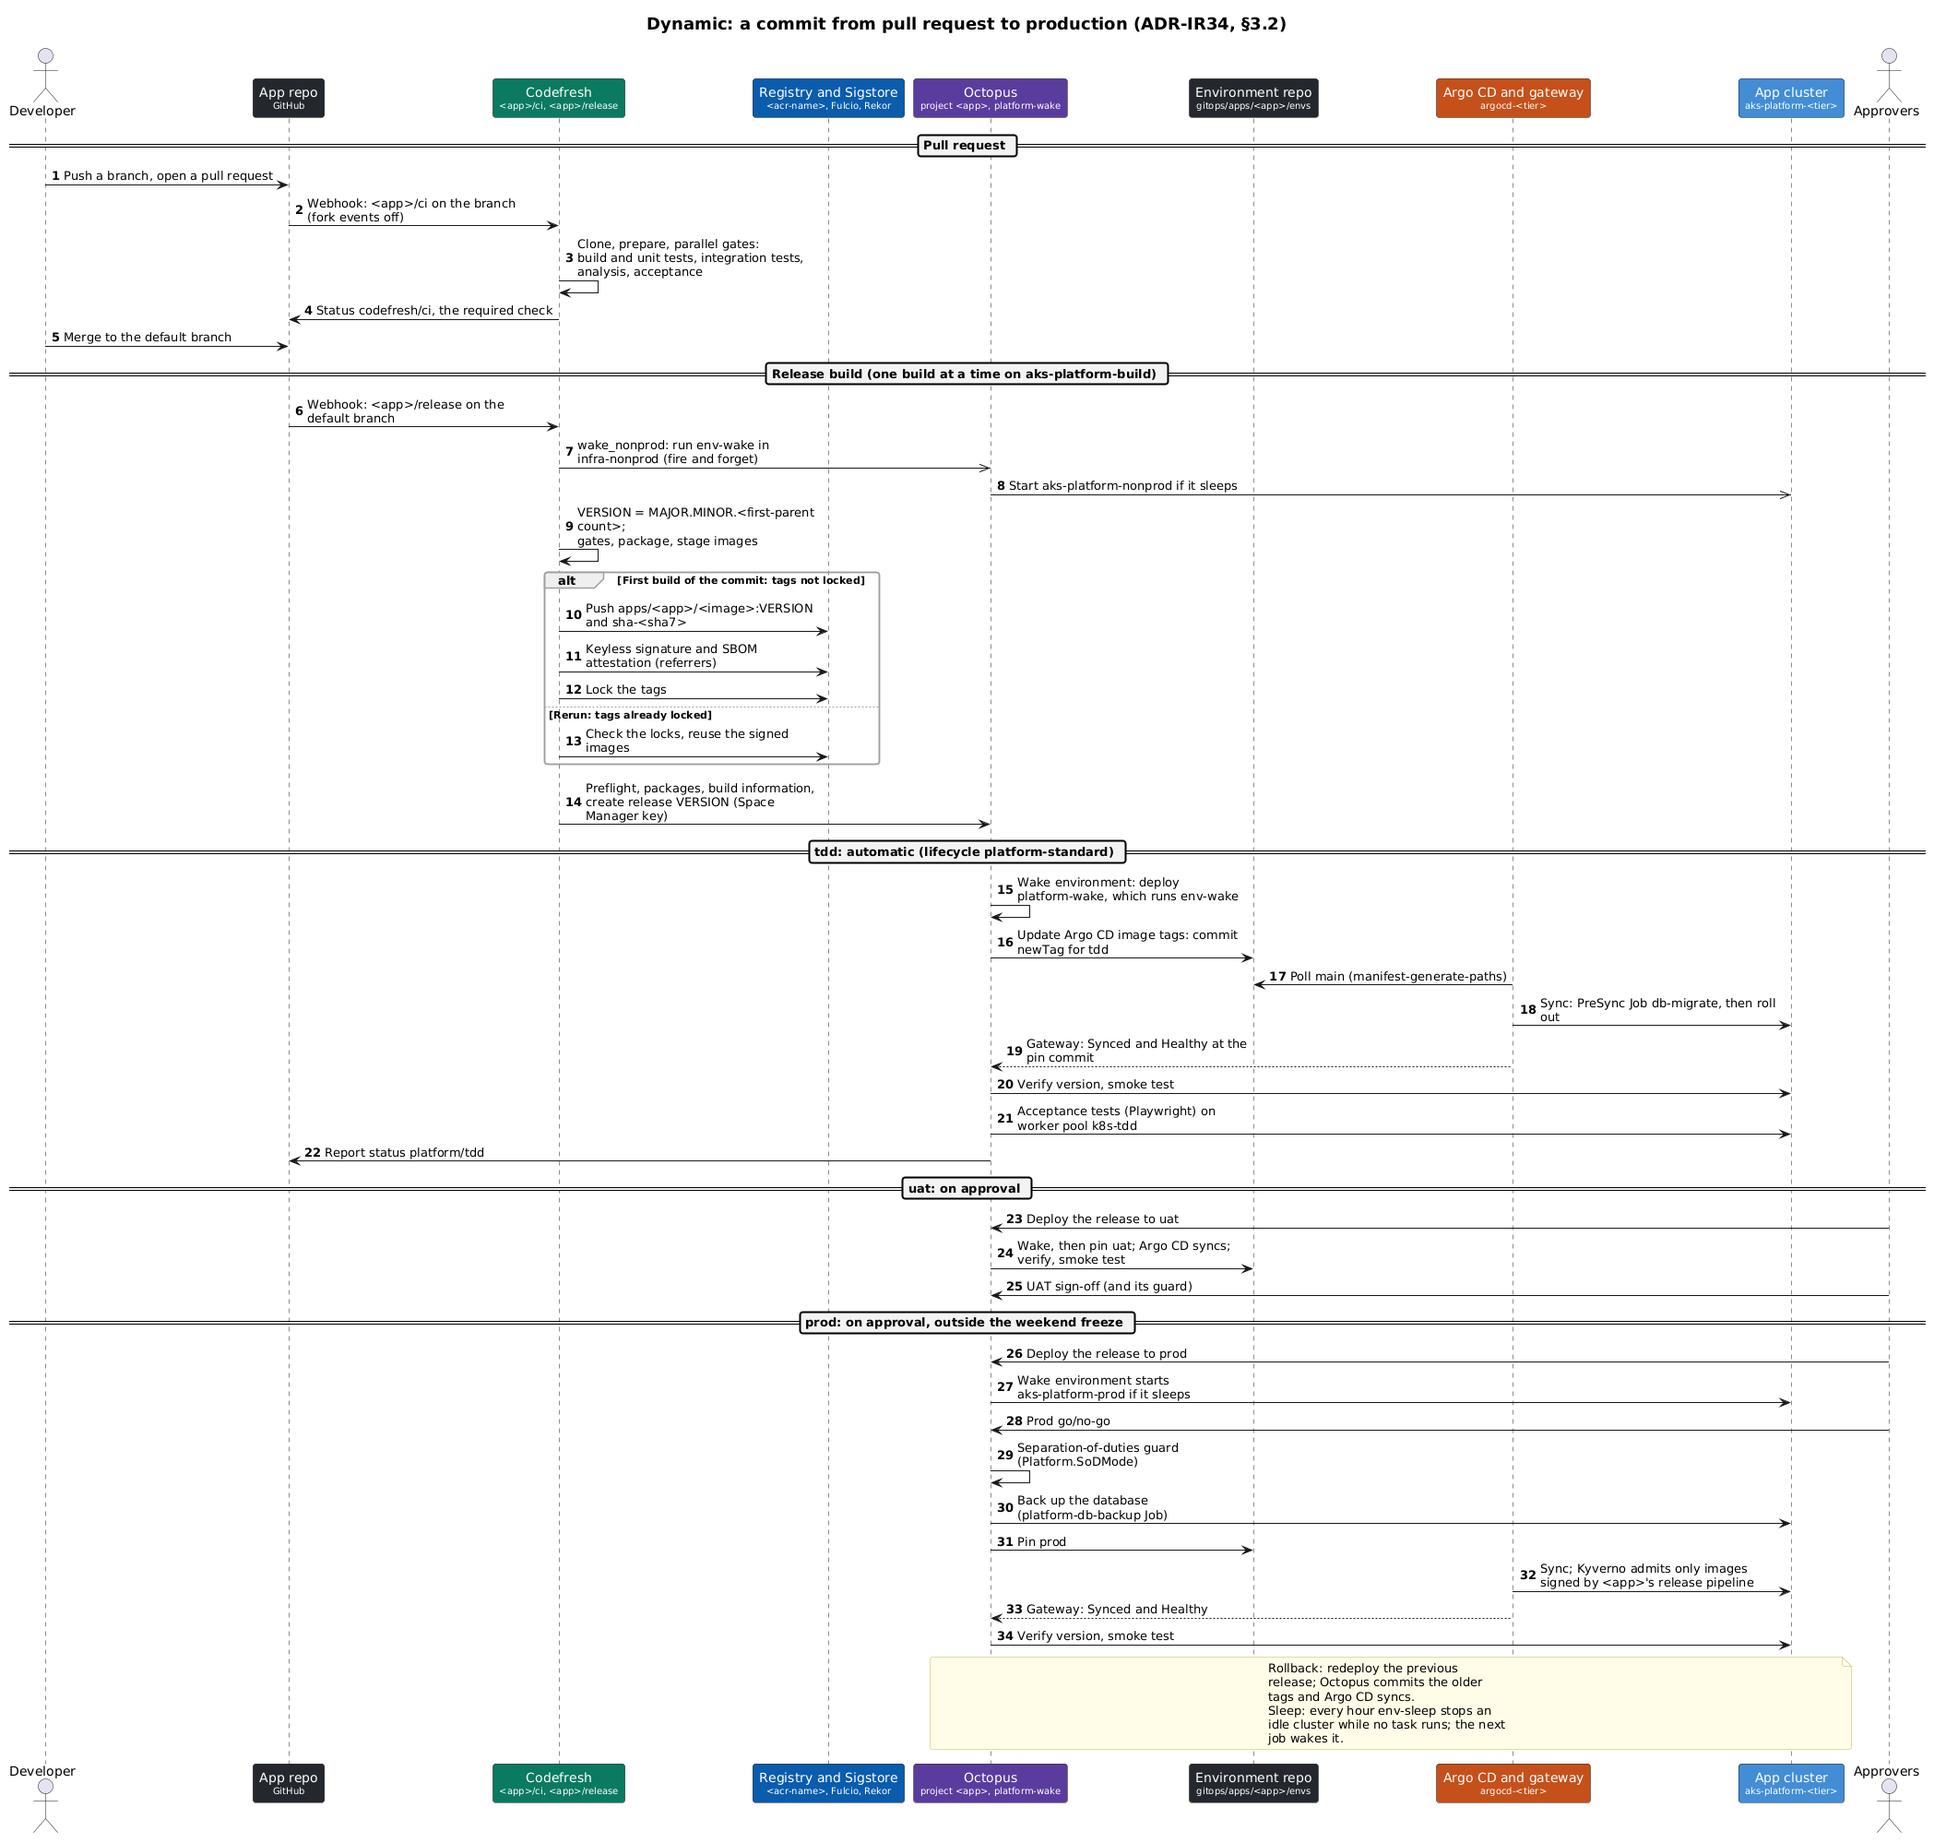
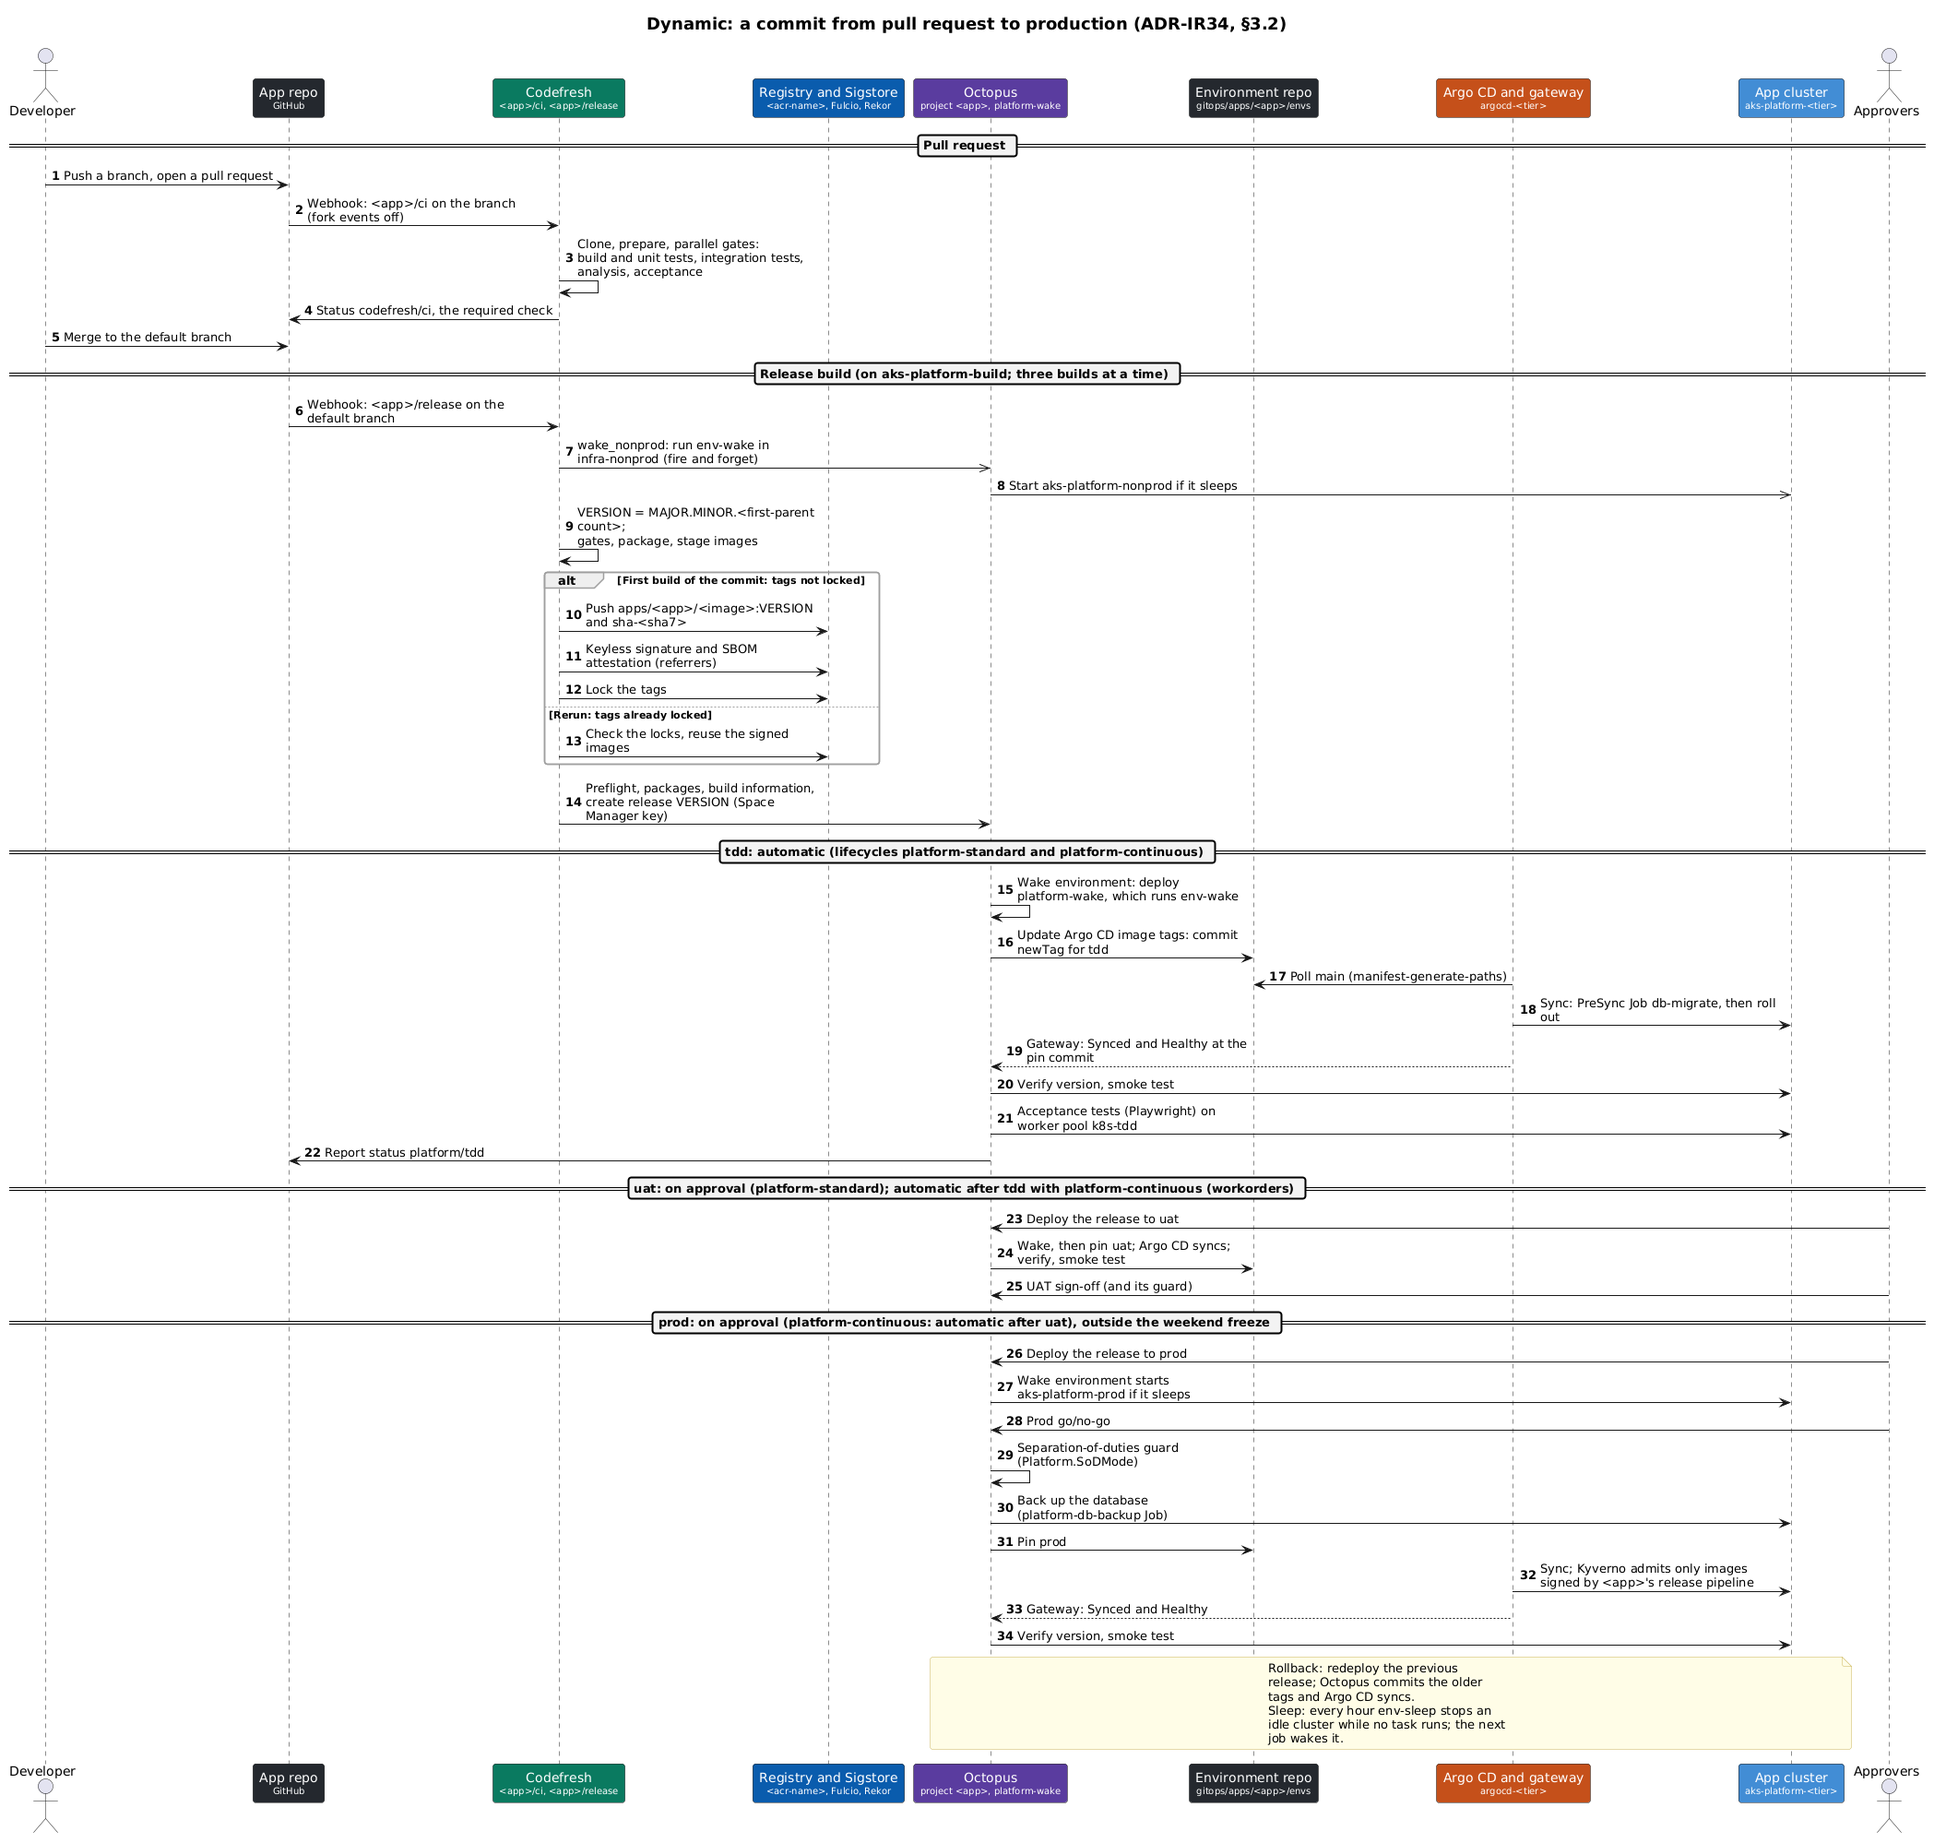
Design: as-built C4 diagrams (runtime, dependencies, environment and app change flows)
Four new diagrams under design/diagrams with real resource names, rendered by
scripts/diagrams/render.ps1 and embedded in README.md, design/architecture-views.md,
docs/walkthroughs/01 and 04 and docs/runbooks/demo-commit-to-prod.md:
- c4-2-as-built-runtime: GitHub, Codefresh hybrid runtime, ACR, Octopus Spaces-335,
  Argo CD, Envoy Gateway, app namespaces and Key Vaults on both app clusters.
- c4-2-as-built-dependencies: build, deploy and run-time dependencies, boundary rules.
- dyn-as-built-env-change: numbered environment-repo change, plus the .octopus/ path.
- dyn-as-built-app-change: numbered workorders change from pull request to prod.

Stale diagrams updated: Argo CD polls every 30 s (dyn-pin-and-sync), Codefresh plan
PRO_1 with three builds and a 1-3 node builds pool (c4-2-deployment-azure,
c4-3-codefresh-a, dyn-commit-to-prod), platform-continuous in dyn-commit-to-prod;
c4-3-gitops-b and view-environment-topology re-rendered (sources changed in bacd872
without a render, which failed the diagrams check on main).

Claude-Session: https://claude.ai/code/session_01439y7Z3FdjfM3MQJYmTY9q

diff --git a/design/architecture-views.md b/design/architecture-views.md
@@ -6,6 +6,7 @@ The pictures are C4 and UML diagrams written in PlantUML under [diagrams/](diagr
 
 ## Contents
 
+- [As built: runtime, dependencies and the two change flows](#as-built-runtime-dependencies-and-the-two-change-flows)
 - [Level 1: system context](#level-1-system-context)
 - [Level 2: containers and deployment](#level-2-containers-and-deployment)
 - [Level 3: build and supply chain (Codefresh)](#level-3-build-and-supply-chain-codefresh)
@@ -18,6 +19,26 @@ The pictures are C4 and UML diagrams written in PlantUML under [diagrams/](diagr
 - [Level 4: code](#level-4-code)
 - [Flows](#flows)
 - [Views](#views)
+
+## As built: runtime, dependencies and the two change flows
+
+The provisioned environment with its real names (registry, vaults, clusters, Octopus space, repositories), checked against `terraform/`, `argocd/`, `gitops/`, `codefresh/`, `.octopus/` and `.github/workflows/`. The levels below keep the design placeholders.
+
+![Level 2 deployment: the environment as built, runtime structure](diagrams/c4-2-as-built-runtime.png)
+
+*Level 2 deployment, as built. GitHub holds the app repos `20260923-001` (workorders) and `platform-sandbox`, this environment repo and Project 678 with its board-only workflow. Codefresh (classic hybrid, runtime `aks-platform-build/codefresh`) runs ci, release and env-checks and pushes to `acrplatformi3aldz`. Octopus Cloud (`Spaces-335`, project `workorders`, lifecycle `platform-continuous`) pins commits to `main`; a self-managed Argo CD on `aks-platform-nonprod` (tdd, uat) and on `aks-platform-prod` (prod) syncs the app namespaces behind Envoy Gateway `platform-gateway`; External Secrets reads `kv-platform-np-i3aldz`, `kv-platform-pr-i3aldz` and the app vaults. Databases are SQL Server 2022 Express pods on managed disks, not Azure SQL. Source: [diagrams/c4-2-as-built-runtime.puml](diagrams/c4-2-as-built-runtime.puml).*
+
+![Level 2: dependencies of the environment as built](diagrams/c4-2-as-built-dependencies.png)
+
+*Level 2, dependencies. Build time: Codefresh depends on the app repo, the environment repo (pipeline YAML and scripts from `main`), Sigstore, the registry and Octopus. Deploy time: Octopus depends on `.octopus/` at `main`, writes pins and waits on the gateway. Run time: Argo CD depends on the environment repo; the workloads on the registry, the database and the vaults through External Secrets. Red dashed lines are boundary rules. The onion rules belong to the app repo, not here. Source: [diagrams/c4-2-as-built-dependencies.puml](diagrams/c4-2-as-built-dependencies.puml).*
+
+![Dynamic: an environment change, from pull request to healthy pods](diagrams/dyn-as-built-env-change.png)
+
+*Dynamic, an environment change: 1 pull request, 2 env-checks and the board workflow (In Review), 3 merge (Done), 4 Argo CD's poll (30 s + 10 s jitter), 5 sync with PreSync `db-migrate`, 6 rollout and health, which the gateway reports to Octopus. A `.octopus/` change takes O4 and O5 instead: Octopus reads `main` at the next release or runbook run. Source: [diagrams/dyn-as-built-env-change.puml](diagrams/dyn-as-built-env-change.puml).*
+
+![Dynamic: a workorders change, from pull request to prod](diagrams/dyn-as-built-app-change.png)
+
+*Dynamic, a workorders change: 1 pull request to `20260923-001`, 2 `workorders/ci` and `codefresh/ci`, 3 merge to master, 4 `workorders/release` (images, signatures, SBOM, release `2.5.<height>`), 5 the tdd pin commit, 6 Argo CD's sync with PreSync `db-migrate` and Octopus's verify, smoke and acceptance tests, 7 uat and 8 prod (database backup first) automatically, 9 the board status by dispatch. Source: [diagrams/dyn-as-built-app-change.puml](diagrams/dyn-as-built-app-change.puml).*
 
 ## Level 1: system context
 
@@ -51,7 +72,7 @@ What starts each pipeline, what a build uses, and how an image travels from buil
 
 ![Level 3: Codefresh projects, pipelines and their triggers](diagrams/c4-3-codefresh-a.png)
 
-*Level 3, Codefresh projects and pipelines (plan BASIC_1: one build at a time) and what starts each. App repos start `<app>/ci` on every branch but the release branch, `<app>/release` on it and `workorders/preview` on labelled same-repo pull requests; fork events are off. Each pipeline posts its `codefresh/*` status; `codefresh/ci` is the required check of master. The environment repo starts env-checks and ci-image-dotnet; crons start ci-image-dotnet weekly and conformance-arm, conformance-destructive and registry-retention once P1-13 enables them. conformance-arm pushes the sandbox commits and queues conformance; `codefresh/register.ps1` creates or replaces every project, pipeline, context and integration by name.*
+*Level 3, Codefresh projects and pipelines (plan PRO_1: three builds at a time) and what starts each. App repos start `<app>/ci` on every branch but the release branch, `<app>/release` on it and `workorders/preview` on labelled same-repo pull requests; fork events are off. Each pipeline posts its `codefresh/*` status; `codefresh/ci` is the required check of master. The environment repo starts env-checks and ci-image-dotnet; crons start ci-image-dotnet weekly and conformance-arm, conformance-destructive and registry-retention once P1-13 enables them. conformance-arm pushes the sandbox commits and queues conformance; `codefresh/register.ps1` creates or replaces every project, pipeline, context and integration by name.*
 
 Text: [7.7 Codefresh](platform-design.md#77-codefresh); [codefresh/apps/workorders/README.md](../codefresh/apps/workorders/README.md).
 

diff --git a/docs/walkthroughs/04-drift-and-rollback.md b/docs/walkthroughs/04-drift-and-rollback.md
@@ -19,6 +19,10 @@ The behaviour is the same for every app: the tenant chart renders every app Appl
 
 *Dynamic, pin and sync. The step Update Argo CD image tags finds the Applications annotated with the deployment's project and environment through the Octopus Argo CD gateway (outbound gRPC from the cluster), then commits `images[].newTag` to `gitops/apps/<app>/envs/<env>/<deployable>/kustomization.yaml` on main as Octopus, without triggering a sync. Argo CD's next poll (scoped by `manifest-generate-paths`) syncs, runs the PreSync `db-migrate` and rolls out; the gateway reports Synced and Healthy at the pin commit, which ends the step's 900-second wait; Verify version and Smoke test follow. A failed migration fails the sync while the old pods keep serving; a rollback redeploys the previous release; `platform-pin-writer` is the fallback writer.*
 
+![Dynamic: an environment change, from pull request to healthy pods](../../design/diagrams/dyn-as-built-env-change.png)
+
+*Dynamic, an environment change as built: pull request, env-checks and the board workflow, merge, Argo CD's 30-second poll, sync and rollout; a `.octopus/` change reaches Octopus at the next release or runbook run instead ([source](../../design/diagrams/dyn-as-built-env-change.puml)).*
+
 - **Git is the truth for Kubernetes.** Every app Application (`<app>-<deployable>-<env>`, `<app>-db-<env>`) syncs automatically with `prune: true` and `selfHeal: true` (ADR-D5). A change made directly in the cluster is reverted; a change merged to `main` is applied.
 - **Octopus is the truth for what version runs.** It is the only writer of the pin fields in `gitops/apps/<app>/envs/<env>/<deployable>/`. Its deployment history says which release each environment runs, who approved it and when.
 - **Rollback is a deployment.** Octopus "redeploy previous release" runs the older release's process again: its pin commit writes the older tags, the PreSync migration has nothing new to run (DbUp is forward-only), and Argo CD rolls the pods back. Argo CD's own rollback is refused on auto-synced Applications (E40), and self-heal would undo a `kubectl set image`.

diff --git a/README.md b/README.md
@@ -10,6 +10,26 @@ Status (2026-09-26): P0 done; P1 (provisioning and conformance) in progress, in 
 
 *Level 1, system context. The platform, the people who use it and the external systems it depends on. [design/architecture-views.md](design/architecture-views.md) shows every level of the design, top-down, each picture with a link to its text.*
 
+## Architecture
+
+The environment as built, with its real resource names; [design/architecture-views.md](design/architecture-views.md) has every other level.
+
+![Level 2 deployment: the environment as built, runtime structure](design/diagrams/c4-2-as-built-runtime.png)
+
+*Runtime structure: GitHub, Codefresh on `aks-platform-build`, `acrplatformi3aldz`, Octopus `Spaces-335`, and Argo CD with Envoy Gateway, the app namespaces and the Key Vaults on `aks-platform-nonprod` and `aks-platform-prod`. Source: [c4-2-as-built-runtime.puml](design/diagrams/c4-2-as-built-runtime.puml).*
+
+![Level 2: dependencies of the environment as built](design/diagrams/c4-2-as-built-dependencies.png)
+
+*Dependencies at build, deploy and run time, with the boundary rules in red. Source: [c4-2-as-built-dependencies.puml](design/diagrams/c4-2-as-built-dependencies.puml).*
+
+![Dynamic: an environment change, from pull request to healthy pods](design/diagrams/dyn-as-built-env-change.png)
+
+*An environment change, steps 1 to 6 (pull request, checks, merge, Argo CD poll, sync, rollout), plus O4 and O5 for `.octopus/`. Source: [dyn-as-built-env-change.puml](design/diagrams/dyn-as-built-env-change.puml).*
+
+![Dynamic: a workorders change, from pull request to prod](design/diagrams/dyn-as-built-app-change.png)
+
+*A workorders change, steps 1 to 9, from the pull request to `20260923-001` to prod and the board. Source: [dyn-as-built-app-change.puml](design/diagrams/dyn-as-built-app-change.puml).*
+
 ## One verb per tool
 
 ![View: one verb per tool](design/diagrams/view-responsibility.png)

diff --git a/design/diagrams/README.md b/design/diagrams/README.md
@@ -47,6 +47,8 @@ the `.png` and `manifest.sha256` together.
   `include/palette.puml`. C4 diagrams end with `SHOW_LEGEND()`.
 - **Names.** Use the binding names of design §7.0 and the placeholders of §7.0 and §7.1
   (`<app>`, `<env>`, `<tier>`, `<acr-name>`, `<cf-runtime>` and so on). Never draw a secret, a key,
-  a live IP address or a generated resource suffix.
+  a live IP address or a generated resource suffix. Exception: the as-built views (`c4-2-as-built-*`,
+  `dyn-as-built-*`) name the provisioned resources as the runbooks do (for example `acrplatformi3aldz`),
+  still without secrets, keys or IP addresses.
 - **Size.** At most about 25 elements. Split a busier view into two files with `-a` and `-b`.
 - **Text.** Short descriptions (two lines at most); no "I", "we" or "you".

diff --git a/docs/runbooks/demo-commit-to-prod.md b/docs/runbooks/demo-commit-to-prod.md
@@ -6,6 +6,10 @@ and the deployments to tdd, uat and prod. The path is the one Lab 18 traces
 ([../walkthroughs/03-promotion-and-hotfix.md](../walkthroughs/03-promotion-and-hotfix.md)); CAP-KIT-009
 (`EndToEndTests`) runs the same path unattended.
 
+![Dynamic: a workorders change, from pull request to prod](../../design/diagrams/dyn-as-built-app-change.png)
+
+*The numbered path the script follows: 1 pull request, 2 ci, 3 merge, 4 release, 5 and 6 tdd (pin, Argo CD sync, verify, smoke, acceptance), 7 uat, 8 prod with a database backup first, 9 board status ([source](../../design/diagrams/dyn-as-built-app-change.puml)).*
+
 Allow about 60 minutes: ci ~10, release ~15, tdd ~15 (acceptance tests), uat ~8, prod ~10.
 
 ## Before the demo (T-60 minutes)

diff --git a/docs/walkthroughs/01-follow-a-commit.md b/docs/walkthroughs/01-follow-a-commit.md
@@ -48,6 +48,10 @@ The same path from the pull request to prod, with the reuse of locked images on 
 
 ![Dynamic: a commit from pull request to production](../../design/diagrams/dyn-commit-to-prod.png)
 
+The same path for app #1 as built, numbered in execution order ([source](../../design/diagrams/dyn-as-built-app-change.puml)):
+
+![Dynamic: a workorders change, from pull request to prod](../../design/diagrams/dyn-as-built-app-change.png)
+
 ## The handoffs
 
 | # | Handoff | Contract for every app | App #1 | Defined in (app #1) |
